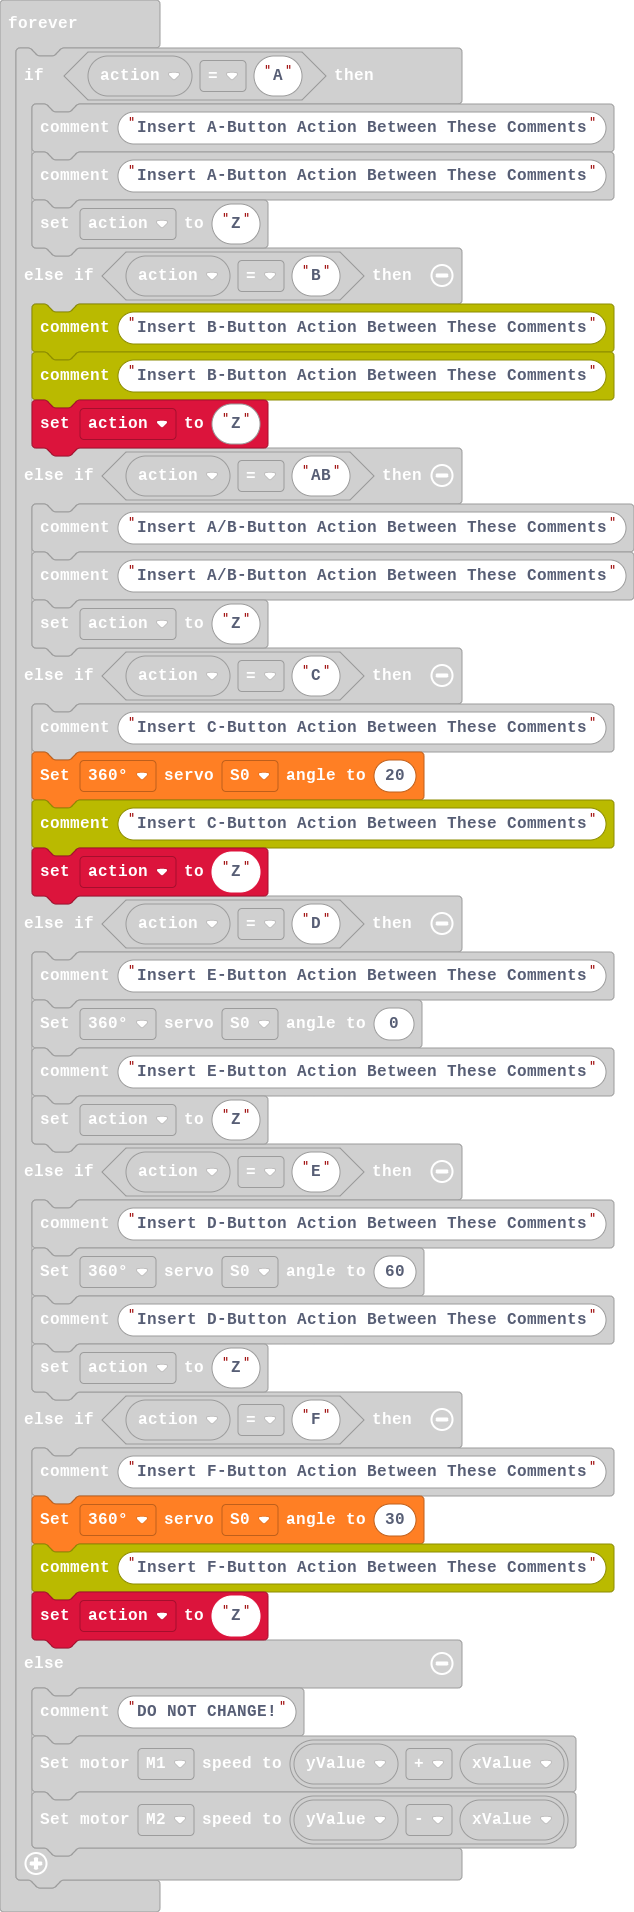
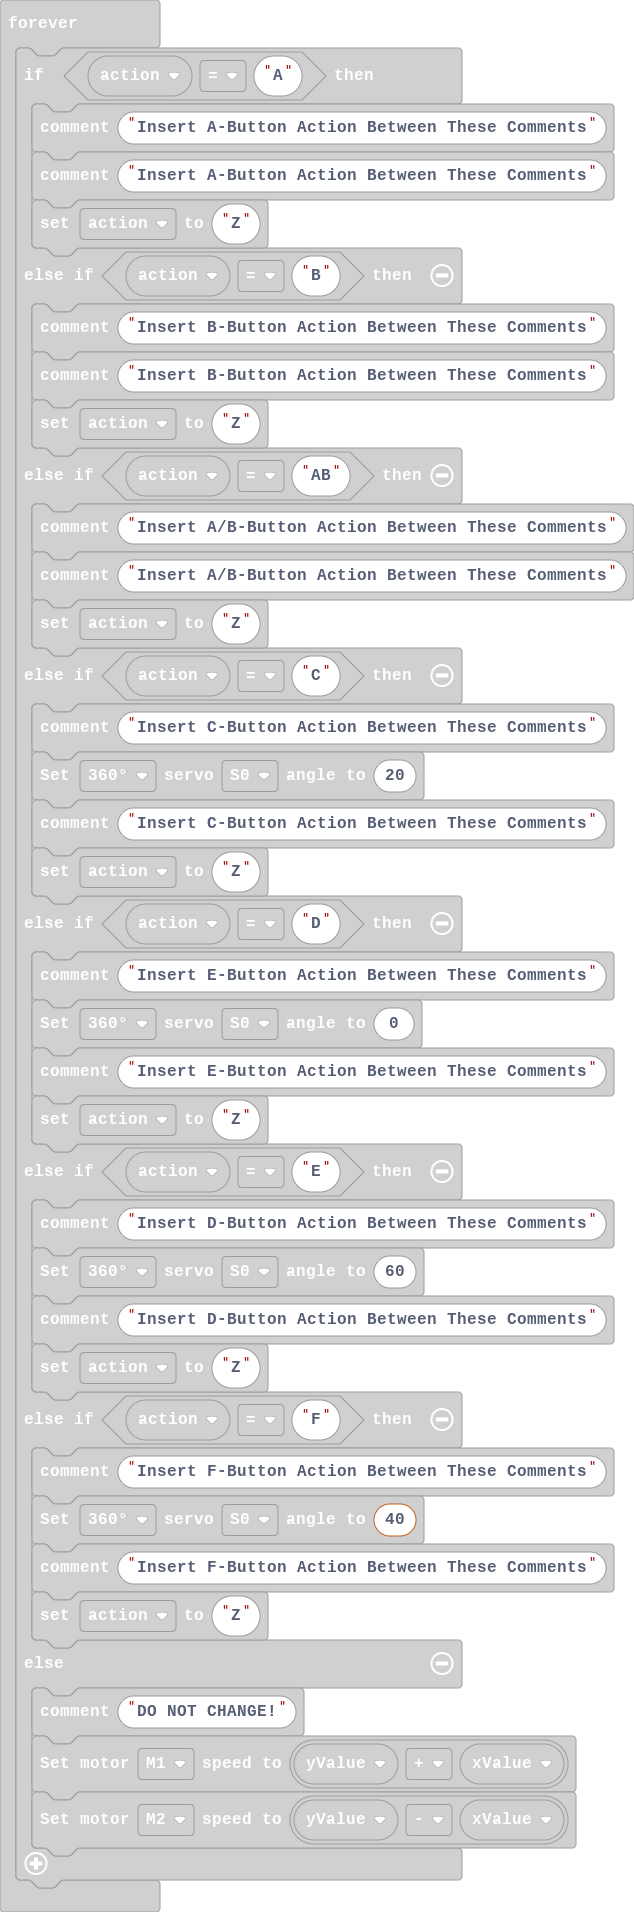
Update main.blocks, main.ts

Changed region(s): [[0.03, 0.3703, 0.989, 0.4937], [0.03, 0.1543, 0.989, 0.2469], [0.03, 0.7714, 0.989, 0.864]]

diff --git a/main.ts b/main.ts
@@ -65,7 +65,7 @@ basic.forever(function () {
         action = "Z"
     } else if (action == "F") {
         comment.comment("Insert F-Button Action Between These Comments")
-        wuKong.setServoAngle(wuKong.ServoTypeList._360, wuKong.ServoList.S0, 30)
+        wuKong.setServoAngle(wuKong.ServoTypeList._360, wuKong.ServoList.S0, 40)
         comment.comment("Insert F-Button Action Between These Comments")
         action = "Z"
     } else {
